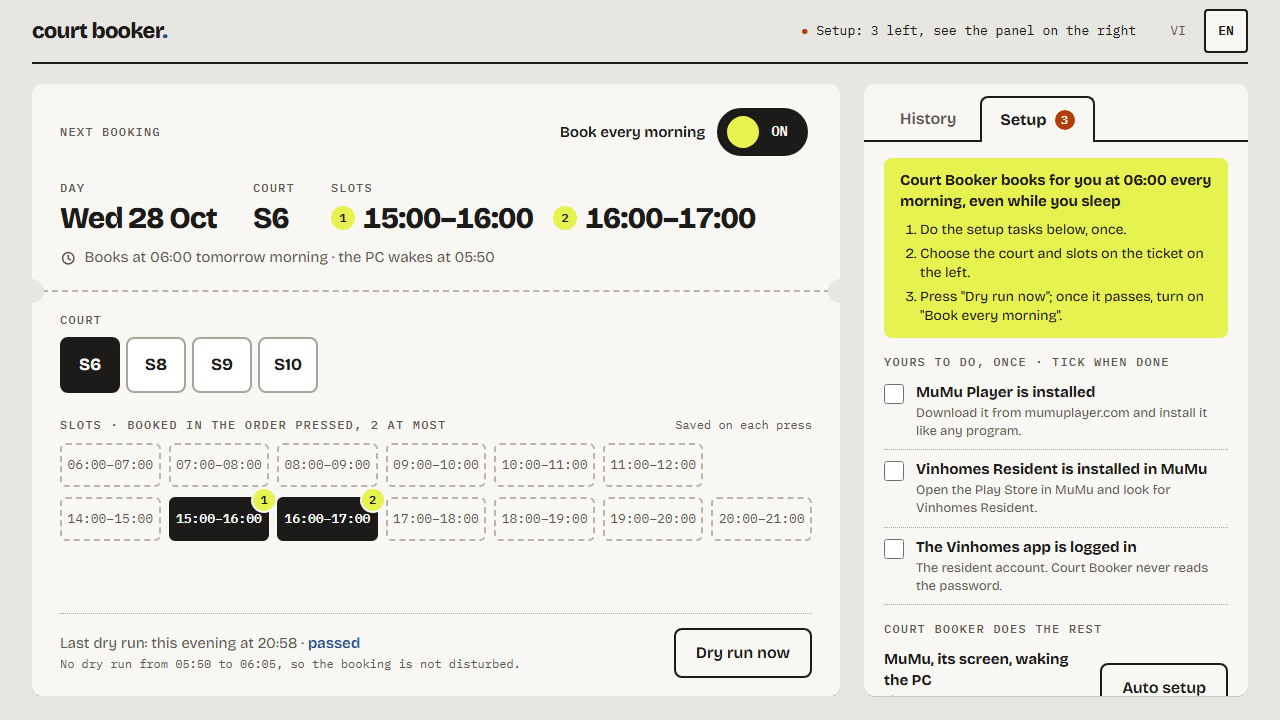
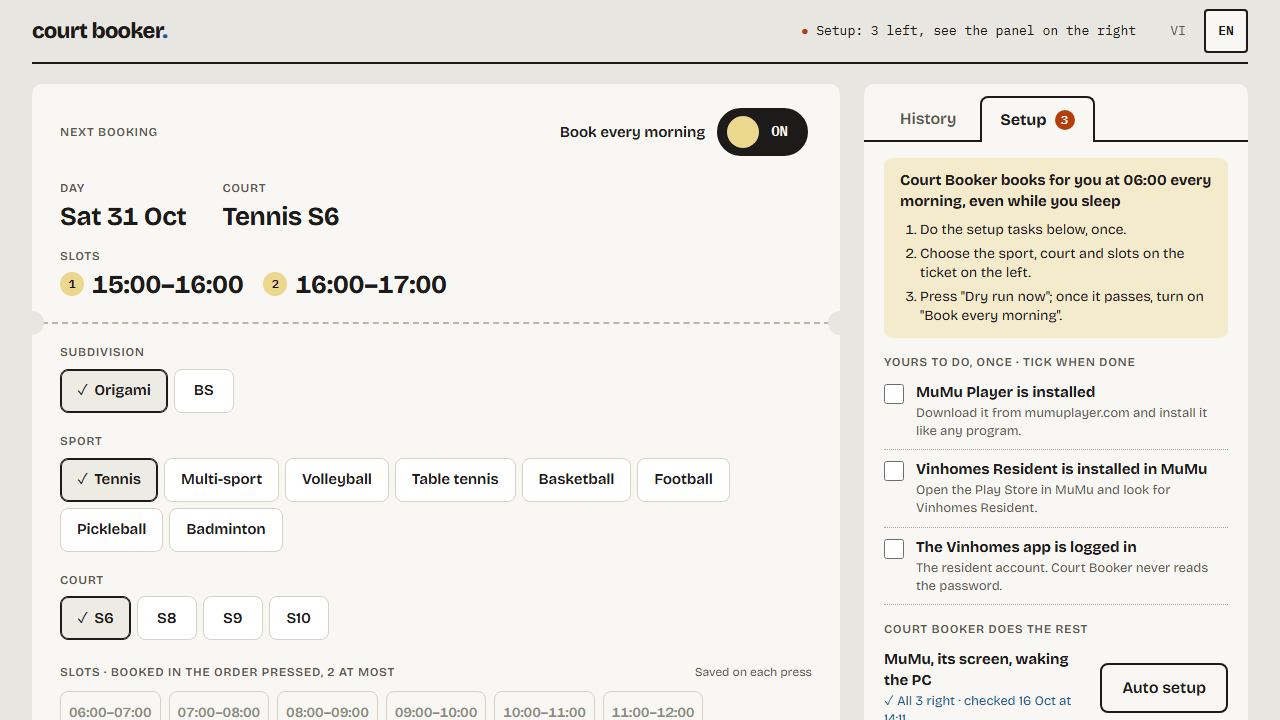
fix: a calmer UI
Sand yellow instead of ball yellow, one size and a light edge for every choice, the chosen one an ink edge, a tint and a tick instead of a block of ink, no dashed slots, labels in the text font, a lighter ticket top. README screenshots retaken.

diff --git a/ui/src/pages/home/BookingTicket.module.css b/ui/src/pages/home/BookingTicket.module.css
@@ -5,7 +5,7 @@
   gap: var(--space-4);
 }
 
-/* The switch with its words; ball yellow once a dry run passed and it is still off. */
+/* The switch with its words; sand yellow once a dry run passed and it is still off. */
 .auto {
   display: flex;
   align-items: center;
@@ -43,10 +43,10 @@
 .field dd {
   margin: 0;
   font-size: var(--text-summary);
-  font-weight: var(--weight-heavy);
+  font-weight: var(--weight-bold);
   font-variant-numeric: tabular-nums;
-  letter-spacing: var(--tracking-heading);
-  line-height: 1.15;
+  letter-spacing: -0.01em;
+  line-height: 1.2;
 }
 
 .off dd {
@@ -66,7 +66,7 @@
   white-space: nowrap;
 }
 
-/* The booking order, the same ball-yellow badge as on the chosen slots below. */
+/* The booking order, the same sand-yellow badge as on the chosen slots below. */
 .badge {
   display: grid;
   place-items: center;
@@ -117,10 +117,11 @@
   gap: 6px;
 }
 
-/* A choice is paper with a rule; the chosen one is filled with ink. */
+/* Every choice looks alike: paper with a light edge; the chosen one takes an ink edge, a
+   tint and a tick, so the ticket holds no blocks of ink but the one action. */
 .choice,
 .slot {
-  border: var(--border) solid var(--color-rule);
+  border: var(--border-hairline) solid var(--color-line);
   background: var(--color-field);
   color: var(--color-ink);
   cursor: pointer;
@@ -129,20 +130,29 @@
 .choice[aria-pressed="true"],
 .slot[aria-pressed="true"] {
   border-color: var(--color-ink);
-  background: var(--color-ink);
-  color: var(--color-on-ink);
+  background: var(--color-tint);
+  box-shadow: inset 0 0 0 1px var(--color-ink);
 }
 
 .choice {
-  min-height: 56px;
+  display: inline-flex;
+  align-items: center;
+  gap: 6px;
+  min-height: var(--touch-target);
   border-radius: var(--radius-button);
+}
+
+.choice[aria-pressed="true"]::before {
+  content: "✓" / "";
+  font-weight: var(--weight-bold);
 }
 
 .court {
   min-width: 60px;
-  padding: 0 var(--space-3);
-  font-size: var(--text-lead);
-  font-weight: var(--weight-bold);
+  justify-content: center;
+  padding: 0 var(--space-4);
+  font-size: var(--text-control);
+  font-weight: var(--weight-semibold);
 }
 
 .wrap {
@@ -150,8 +160,7 @@
 }
 
 .sport {
-  min-height: 44px;
-  padding: 0 var(--space-3);
+  padding: 0 var(--space-4);
   font-size: var(--text-control);
   font-weight: var(--weight-semibold);
 }
@@ -165,7 +174,6 @@
 
 .note,
 .warning {
-  font-family: var(--font-mono);
   font-size: var(--text-label);
 }
 
@@ -187,23 +195,20 @@
   position: relative;
   min-height: var(--touch-target);
   padding: 0 var(--space-1);
-  border-radius: var(--radius-stamp);
-  font-family: var(--font-mono);
-  font-size: var(--text-small);
+  border-radius: var(--radius-button);
+  font-size: var(--text-data);
   font-weight: var(--weight-semibold);
+  font-variant-numeric: tabular-nums;
 }
 
-/* With two slots chosen the others take no more: a dashed edge, as a step not reached. */
+/* With two slots chosen the others take no more: they fade, with no dashed edge. */
 .blocked {
-  border-style: dashed;
-  border-color: var(--color-perforation);
   background: transparent;
-  color: var(--color-muted);
-  font-weight: var(--weight-regular);
+  color: var(--color-faint);
   cursor: not-allowed;
 }
 
-/* The booking order, a ball-yellow badge on the corner. */
+/* The booking order, a sand-yellow badge on the corner. */
 .order {
   position: absolute;
   top: -10px;
@@ -252,6 +257,5 @@
 }
 
 .quiet {
-  font-family: var(--font-mono);
-  font-size: var(--text-label);
+  font-size: var(--text-small);
 }

diff --git a/ui/src/styles/tokens.css b/ui/src/styles/tokens.css
@@ -14,6 +14,8 @@
   --color-faint: #8f8a7f; /* markers of pending steps, never text */
   --color-rule: #a9a59a; /* dotted rows of lists and tables */
   --color-perforation: #b9b5aa; /* dashed ticket stub, steps not reached */
+  --color-line: #d6d2c8; /* the edge of a choice not chosen */
+  --color-tint: #ecebe4; /* the fill of a chosen choice */
   --color-shadow: #c9c6bc; /* edge under a card */
 
   /* Text on ink fills (running banner, technical details) */
@@ -25,7 +27,8 @@
   --color-stamp: #2b48a6; /* booked, links */
   --color-stamp-strong: #1c3380; /* link hover */
   --color-failed: #b53c0b; /* the mockups' #c2410c, darkened to reach 4.5:1 on the ground */
-  --color-highlight: #e6f24f; /* ball yellow: the 06:00 moment, the current step */
+  --color-highlight: #ecd78f; /* sand yellow: the 06:00 moment, the current step, the order */
+  --color-highlight-soft: #f4ebcc; /* a large area in the same yellow: the setup guide */
 
   /* Type: --font-sans and --font-mono come from fonts.css */
   --text-label: 12px; /* mono capitals above values */
@@ -37,7 +40,7 @@
   --text-heading-xs: 18px;
   --text-heading-sm: 22px;
   --text-display-lg: 60px;
-  --text-summary: 30px; /* the day, court and slots the next booking is for */
+  --text-summary: 26px; /* the day, court and slots the next booking is for */
   --text-ticket-slot: 84px; /* the slot being booked */
 
   --weight-regular: 400;
@@ -53,7 +56,7 @@
   --tracking-hero: -0.05em;
   --tracking-heading: -0.03em;
   --tracking-stamp: 0.08em;
-  --tracking-label: 0.1em;
+  --tracking-label: 0.06em;
 
   /* Space on a 4 px grid */
   --space-1: 4px;

diff --git a/ui/src/pages/home/SetupTab.module.css b/ui/src/pages/home/SetupTab.module.css
@@ -6,12 +6,12 @@
   padding: 0 var(--space-5) var(--space-4);
 }
 
-/* "Cách dùng", first while anything is left: ball yellow, as the next thing to do. */
+/* "Cách dùng", first while anything is left: a soft sand yellow, as the next thing to do. */
 .start {
   margin-top: var(--space-4);
   padding: var(--space-3) var(--space-4);
   border-radius: var(--radius-button);
-  background: var(--color-highlight);
+  background: var(--color-highlight-soft);
 }
 
 .startTitle {
@@ -32,9 +32,8 @@
 .heading {
   padding: var(--space-4) 0 2px;
   color: var(--color-muted);
-  font-family: var(--font-mono);
   font-size: var(--text-label);
-  font-weight: var(--weight-medium);
+  font-weight: var(--weight-semibold);
   letter-spacing: var(--tracking-label);
   text-transform: uppercase;
 }

diff --git a/ui/src/components/Overline.module.css b/ui/src/components/Overline.module.css
@@ -1,9 +1,9 @@
 .overline {
   margin: 0;
   color: var(--color-muted);
-  font-family: var(--font-mono);
+  font-family: var(--font-sans);
   font-size: var(--text-label);
-  font-weight: var(--weight-medium);
+  font-weight: var(--weight-semibold);
   letter-spacing: var(--tracking-label);
   text-transform: uppercase;
 }

diff --git a/ui/src/pages/home/RunDetail.module.css b/ui/src/pages/home/RunDetail.module.css
@@ -99,9 +99,8 @@
 .stepsTitle {
   margin-top: var(--space-1);
   color: var(--color-muted);
-  font-family: var(--font-mono);
   font-size: var(--text-label);
-  font-weight: var(--weight-medium);
+  font-weight: var(--weight-semibold);
   letter-spacing: var(--tracking-label);
   text-transform: uppercase;
 }

diff --git a/ui/src/pages/home/LiveTicket.module.css b/ui/src/pages/home/LiveTicket.module.css
@@ -123,7 +123,7 @@
   font-size: var(--text-data);
 }
 
-/* The newest step: ball yellow, a black dot, "đang chạy". */
+/* The newest step: sand yellow, a black dot, "đang chạy". */
 .newest {
   margin: 0 calc(-1 * var(--space-3));
   padding-right: var(--space-3);

diff --git a/ui/src/components/StatusLine.module.css b/ui/src/components/StatusLine.module.css
@@ -7,7 +7,7 @@
   font-size: var(--text-small);
 }
 
-/* Ready for the next start: the ball-yellow of the 06:00 moment. */
+/* Ready for the next start: the sand-yellow of the 06:00 moment. */
 .ready {
   padding: 6px 10px;
   border-radius: var(--radius-bar);

diff --git a/CHANGELOG.md b/CHANGELOG.md
@@ -7,6 +7,11 @@ uses [Semantic Versioning](https://semver.org/).
 ## [Unreleased]
 
 ### Changed
+- A calmer UI: the highlight is a soft sand yellow instead of ball yellow (a paler one for the
+  setup guide); every choice has one size and a light edge, and the chosen one an ink edge, a
+  tint and a tick instead of a block of ink; slots no longer turn dashed once two are chosen;
+  labels and notes use the text font; the top of the ticket is lighter. README screenshots
+  retaken.
 - The top of the ticket keeps fixed rows: the play day and the court, then the slots on a row
   of their own, so a long court name no longer moves them. The subdivision before the court
   and the line on when the run starts and the PC wakes are gone; a line shows only while the

diff --git a/README.md b/README.md
@@ -226,8 +226,9 @@ Saving settings rewrites `config.toml` (its comments are dropped); the next run 
 
 <p>
   <img src="docs/img/home.png" width="49%" alt="Ready for 06:00: the ticket with the daily
-  switch on and the play day, the court and two slots numbered in booking order, the last dry
-  run; the History lists each booking with its count and slots">
+  switch on, the play day, the court and two slots numbered in booking order, and the
+  subdivision, sport and court to choose; the History lists each booking with its count and
+  slots">
   <img src="docs/img/setup.png" width="49%" alt="First use: the Setup tab opens with a count
   of three tasks, three lines on how to start and the steps to tick">
 </p>
